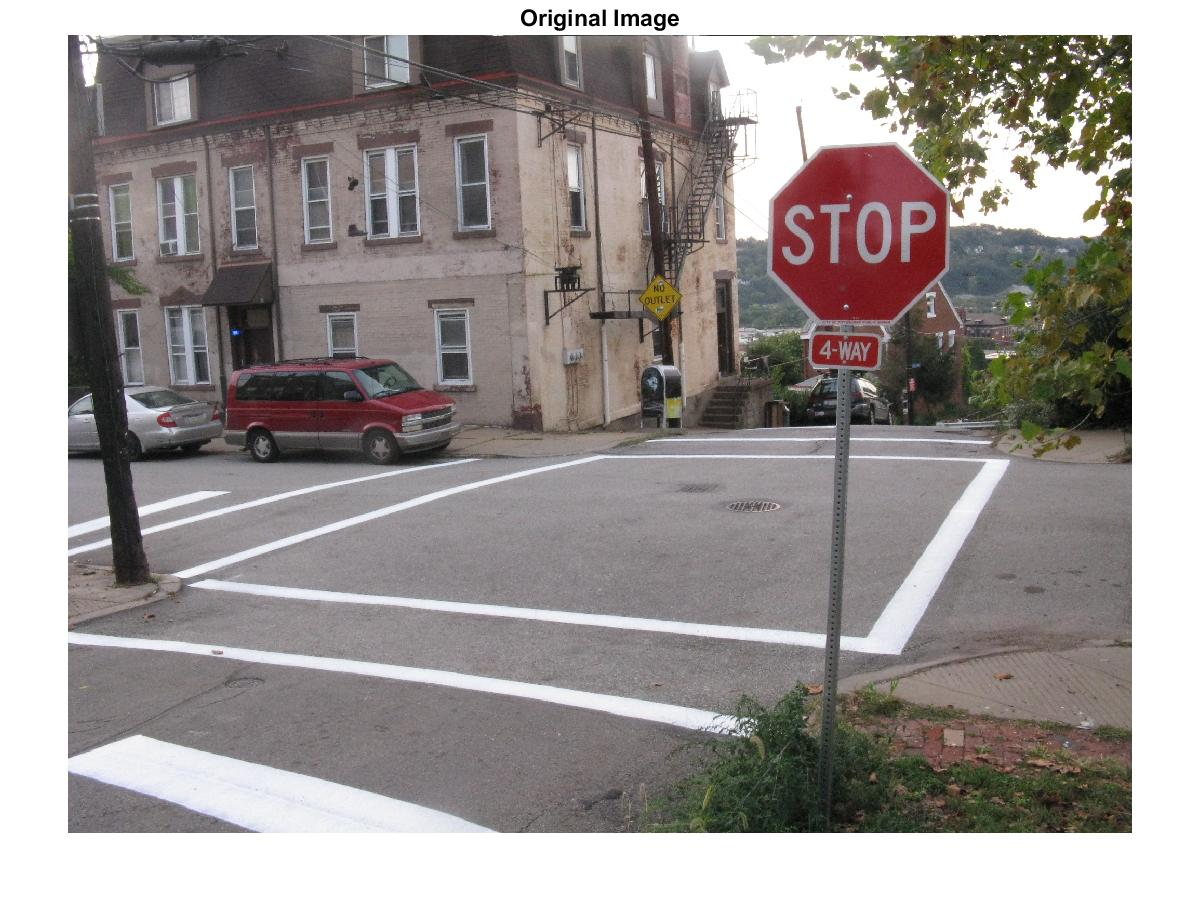
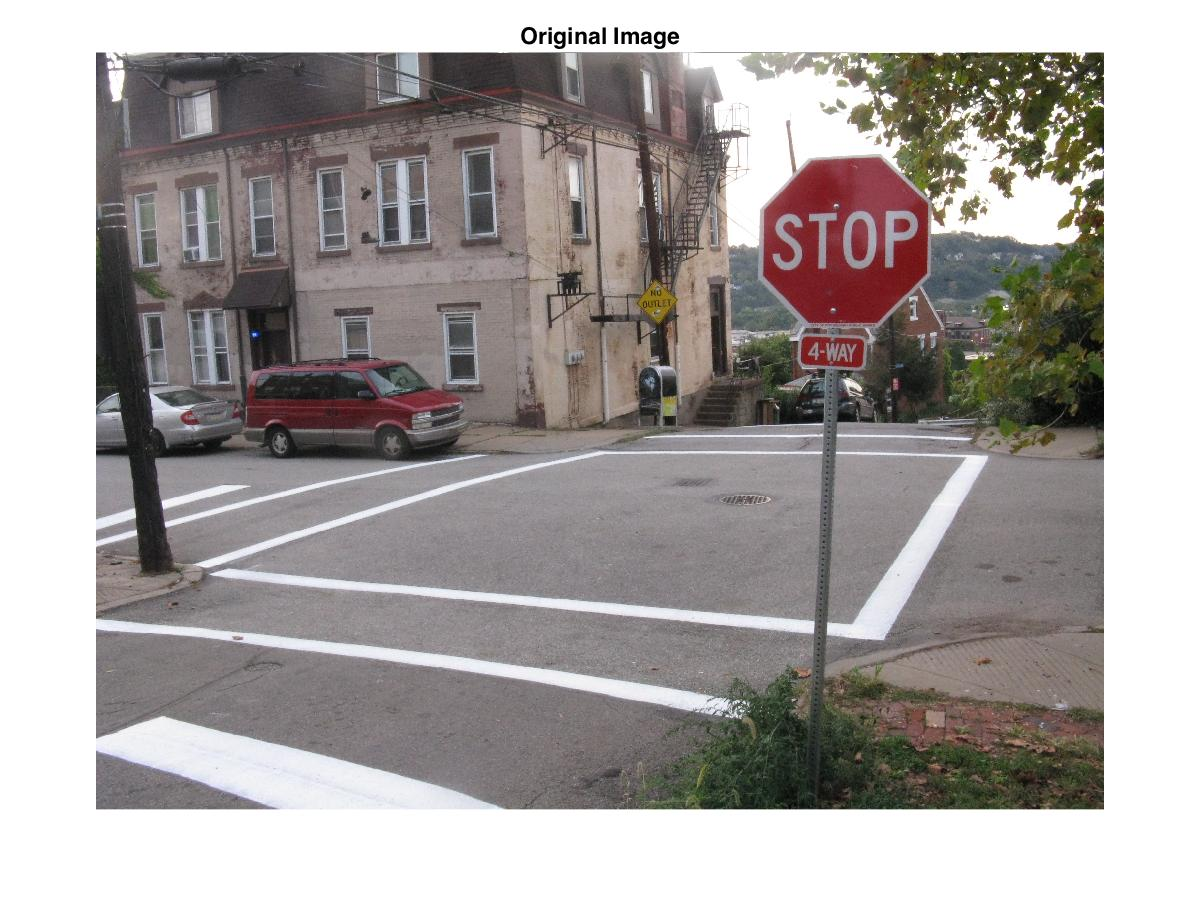
started stopSign.py

diff --git a/stopSign.m b/stopSign.m
@@ -34,11 +34,12 @@ hold off
 %make longest edge 400
 h = size(im,1);
 w = size(im,2);
+%crop the bottom 4th of the image
 if h > w
     im = imresize(im, [400, w/(h/400)]);
     h = size(im,1);
     w = size(im,2);
-    im = imcrop(im,[1 1 w h - (h/4)]);
+    im = imcrop(im,[1 1 w h - (h/4)]);  %the crop
 else
     im = imresize(im, [h/(w/400), 400]);
     h = size(im,1);
@@ -46,8 +47,6 @@ else
     im = imcrop(im,[1 1 w h - (h/4)]);
 end
 
-%remove bottom 3rd of image
-x = imcrop(im,[1 1 w 200]);
 
 figure
 imshow(im);
@@ -61,7 +60,7 @@ hold off
 for i = 1:size(im,1)
     for j = 1:size(im,2)
         if double(im(i,j,1)) / (double(im(i,j,2)) + double(im(i,j,3))) < 1.1 % im(i,j,3) + im(i,j,2) > 450
-            im (i,j,:) = 0;
+            im (i,j,:) = 0; %make the pixel black, if its not red enough
         end
     end
 end

diff --git a/stopSign.py b/stopSign.py
@@ -1,0 +1,21 @@
+
+
+
+#diego
+%--------------------READ IMAGE--------------------%
+
+
+
+%--------------------RESIZE IMAGE--------------------%
+
+
+%--------------------THRESHOLD IMAGE--------------------%
+
+
+
+
+
+
+#austin
+#for this part, use the Thresholded_Images
+%--------------------DETECT BLOBS--------------------%
